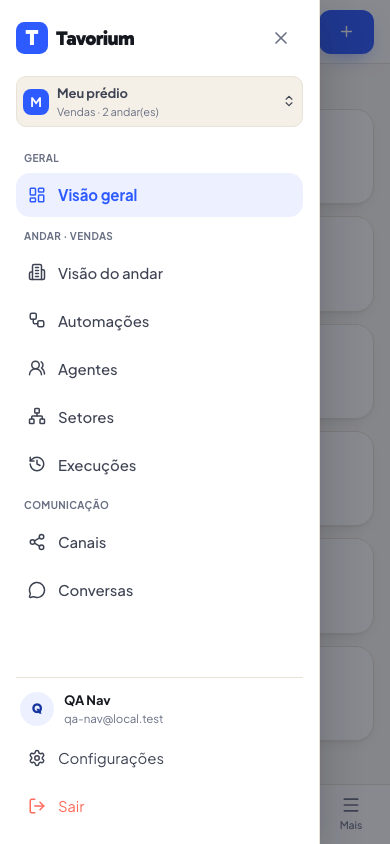
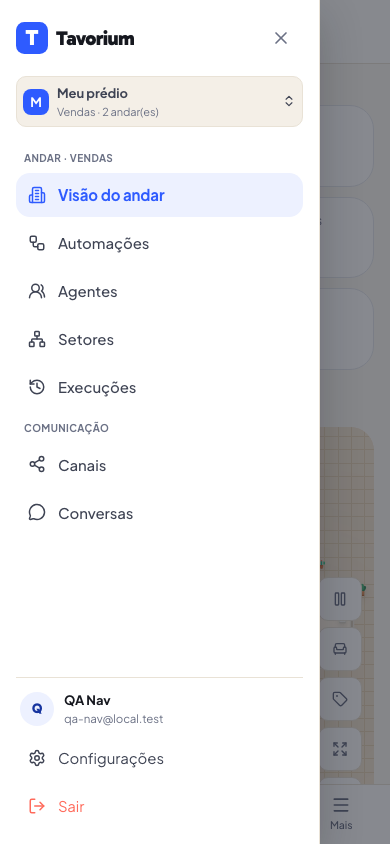
feat(nav): merge the building overview into the floor home
One overview instead of two: /dashboard now resolves to the active floor (building landing only when no floor exists yet). The floor home shows a compact PRÉDIO KPI strip (building-wide totals) above the ESTE ANDAR section (scoped office map + floor data). Floor switching stays in the sidebar building selector — no floor-switch buttons on the page (per request). Removed the duplicate 'Visão geral' nav item; the floor item is exact-match so it doesn't stay active on sub-pages. Removed the now-circular 'Prédio' back-link. Updated E2E, redirect map, report and screenshots.

diff --git a/frontend/src/pages/FloorView.tsx b/frontend/src/pages/FloorView.tsx
@@ -1,8 +1,8 @@
 import { useCallback, useEffect, useState } from 'react'
-import { Link, useParams } from 'react-router'
+import { useParams } from 'react-router'
 import { AppLayout } from '../components/AppLayout'
-import { archiveFloor, getFloor, getFloorActivity, getFloorMetrics, restoreFloor } from '../lib/floors'
-import type { Floor, FloorMetrics } from '../lib/floors'
+import { archiveFloor, getBuildingOverview, getFloor, getFloorActivity, getFloorMetrics, restoreFloor } from '../lib/floors'
+import type { BuildingOverview, Floor, FloorMetrics } from '../lib/floors'
 import { featureFlags } from '../featureFlags'
 import { OfficeFloor } from '../office/OfficeFloor'
 import { useAgentsAndWidgets } from '../lib/useAgentsAndWidgets'
@@ -18,9 +18,21 @@ export function FloorView() {
   const [floor, setFloor] = useState<Floor | null>(null)
   const [activity, setActivity] = useState<{ agentCount: number; sectorCount: number } | null>(null)
   const [metrics, setMetrics] = useState<FloorMetrics | null>(null)
+  // Building-wide summary (the merged overview) shown compactly at the top.
+  const [overview, setOverview] = useState<BuildingOverview | null>(null)
   const [loading, setLoading] = useState(true)
   const [error, setError] = useState(false)
   const [busy, setBusy] = useState(false)
+
+  useEffect(() => {
+    let alive = true
+    getBuildingOverview()
+      .then((o) => alive && setOverview(o))
+      .catch(() => {})
+    return () => {
+      alive = false
+    }
+  }, [])
 
   const load = useCallback(async () => {
     if (!floorId) return
@@ -60,18 +72,27 @@ export function FloorView() {
       current="/dashboard"
       title={floor?.name ?? 'Andar'}
       subtitle={floor?.mission || 'Andar do prédio'}
-      actions={
-        <Link to="/dashboard" style={{ textDecoration: 'none' }}>
-          <Button variant="ghost" icon="arrow-left">
-            Prédio
-          </Button>
-        </Link>
-      }
     >
       {loading && <p style={{ color: 'var(--text-muted)' }}>Carregando andar…</p>}
       {error && <p style={{ color: 'var(--intent-danger, #d92d20)' }}>Não foi possível carregar o andar.</p>}
       {!loading && !error && floor && (
         <div style={{ display: 'flex', flexDirection: 'column', gap: 16 }}>
+          {/* Building-wide summary (merged overview). Switching floors is done from
+              the building selector in the sidebar — not from this page. */}
+          {overview && (
+            <div>
+              <SectionLabel>Prédio</SectionLabel>
+              <div style={{ display: 'grid', gap: 10, gridTemplateColumns: 'repeat(auto-fill, minmax(120px, 1fr))' }}>
+                <Tile label="Andares" value={overview.totals.floors} />
+                <Tile label="Agentes" value={overview.totals.agents} />
+                <Tile label="Setores" value={overview.totals.sectors} />
+                <Tile label="Automações ativas" value={overview.totals.automationsActive} />
+                <Tile label="Execuções ativas" value={overview.totals.runsActive} />
+                <Tile label="Falhas (24h)" value={overview.totals.failures24h} />
+              </div>
+            </div>
+          )}
+          <SectionLabel>Este andar</SectionLabel>
           {/* The visual office map is the centre of the floor view (scoped). */}
           <OfficeFloor floorId={floor.id} agents={agents} sectors={sectors} />
           <div style={panel}>
@@ -102,6 +123,14 @@ export function FloorView() {
         </div>
       )}
     </AppLayout>
+  )
+}
+
+function SectionLabel({ children }: { children: string }) {
+  return (
+    <h2 style={{ margin: '0 0 8px', fontSize: 11, fontWeight: 700, letterSpacing: '.06em', textTransform: 'uppercase', color: 'var(--text-faint)' }}>
+      {children}
+    </h2>
   )
 }
 

diff --git a/frontend/src/components/navConfig.ts b/frontend/src/components/navConfig.ts
@@ -13,6 +13,9 @@ export interface NavItemDef {
   path: (floorId: string | null) => string
   // Route prefixes that keep this item active (details keep the parent active).
   activePrefixes: (floorId: string | null) => string[]
+  // Active only on an exact path match (the floor home must not stay lit on its
+  // own sub-pages like /agents).
+  exact?: boolean
   mobilePrimary?: boolean
   featureFlag?: keyof FeatureFlags
 }
@@ -20,8 +23,9 @@ export interface NavItemDef {
 const floorPath = (floorId: string | null, suffix: string, legacy: string) => (floorId ? `/floors/${floorId}${suffix}` : legacy)
 
 export const NAV_V2: NavItemDef[] = [
-  { key: 'overview', label: 'Visão geral', icon: 'layout-dashboard', scope: 'general', path: () => '/dashboard', activePrefixes: () => ['/dashboard'], mobilePrimary: true },
-  { key: 'floor', label: 'Visão do andar', icon: 'building-2', scope: 'floor', path: (f) => floorPath(f, '', '/dashboard'), activePrefixes: (f) => (f ? [`/floors/${f}`] : []), mobilePrimary: true },
+  // The floor home is also the building home (the general overview was merged into
+  // it) — exact match so it doesn't stay active on the floor's sub-pages.
+  { key: 'floor', label: 'Visão do andar', icon: 'building-2', scope: 'floor', path: (f) => floorPath(f, '', '/dashboard'), activePrefixes: (f) => (f ? [`/floors/${f}`] : ['/dashboard']), exact: true, mobilePrimary: true },
   { key: 'automations', label: 'Automações', icon: 'workflow', scope: 'floor', path: (f) => floorPath(f, '/automations', '/automations'), activePrefixes: (f) => [floorPath(f, '/automations', '/automations')], mobilePrimary: true, featureFlag: 'aiAutomations' },
   { key: 'agents', label: 'Agentes', icon: 'users-round', scope: 'floor', path: (f) => floorPath(f, '/agents', '/agents'), activePrefixes: (f) => [floorPath(f, '/agents', '/agents')], mobilePrimary: true },
   { key: 'sectors', label: 'Setores', icon: 'network', scope: 'floor', path: (f) => floorPath(f, '/sectors', '/setores'), activePrefixes: (f) => [floorPath(f, '/sectors', '/setores')] },
@@ -42,5 +46,5 @@ export const SCOPE_LABEL: Record<NavScope, string> = {
 
 // True when the current pathname matches one of an item's active prefixes.
 export function isNavActive(item: NavItemDef, floorId: string | null, pathname: string): boolean {
-  return item.activePrefixes(floorId).some((p) => pathname === p || pathname.startsWith(p + '/'))
+  return item.activePrefixes(floorId).some((p) => (item.exact ? pathname === p : pathname === p || pathname.startsWith(p + '/')))
 }

diff --git a/frontend/src/App.tsx b/frontend/src/App.tsx
@@ -3,7 +3,7 @@ import { Navigate, Route, Routes } from 'react-router'
 import { ProtectedRoute } from './components/ProtectedRoute'
 import { featureFlags } from './featureFlags'
 import { BuildingProvider } from './contexts/BuildingContext'
-import { AutomationDetailRedirect, BuildingToDashboard, LegacyModuleRedirect } from './pages/redirects'
+import { AutomationDetailRedirect, BuildingToDashboard, DashboardHome, LegacyModuleRedirect } from './pages/redirects'
 import { FloorView } from './pages/FloorView'
 import { Automations } from './pages/Automations'
 import { AutomationEditor } from './pages/AutomationEditor'
@@ -37,8 +37,10 @@ function App() {
       <Route path="/register" element={<Register />} />
       <Route path="/widget/:publicKey" element={<Widget />} />
 
-      {/* The single building overview */}
-      <Route path="/dashboard" element={<P><Dashboard /></P>} />
+      {/* Home. In V2 the building overview is merged into the floor home, so
+          /dashboard resolves to the active floor (or the building landing when
+          there is no floor yet). */}
+      <Route path="/dashboard" element={<P>{v2 ? <DashboardHome /> : <Dashboard />}</P>} />
 
       {v2 ? (
         <>

diff --git a/frontend/src/pages/redirects.tsx b/frontend/src/pages/redirects.tsx
@@ -2,12 +2,23 @@ import { useEffect, useState } from 'react'
 import { Navigate, useParams } from 'react-router'
 import { useBuildingContext } from '../contexts/BuildingContext'
 import { getAutomation } from '../lib/automations'
+import { Dashboard } from './Dashboard'
 
 // Legacy-route redirects (UX reorg §4.2). URLs stay working; they resolve to the
 // canonical floor-scoped route so bookmarks/links never break.
 
 export function BuildingToDashboard() {
   return <Navigate to="/dashboard" replace />
+}
+
+// /dashboard is no longer a page of its own: the building overview was merged into
+// the floor home. Send it to the active floor; only when there is no floor yet do
+// we fall back to the building landing (KPIs + create-your-first-floor).
+export function DashboardHome() {
+  const { activeFloorId, loading } = useBuildingContext()
+  if (loading) return null
+  if (activeFloorId) return <Navigate to={`/floors/${activeFloorId}`} replace />
+  return <Dashboard />
 }
 
 // A global module route (/automations, /agents, /setores, /runs) → the same

diff --git a/frontend/e2e/nav-hierarchy.spec.ts b/frontend/e2e/nav-hierarchy.spec.ts
@@ -22,12 +22,13 @@ async function login(page: Page) {
   await page.waitForURL('**/dashboard', { timeout: 15_000 }).catch(() => {})
 }
 
-test('dashboard is the building overview (KPIs + floor cards), not the map', async ({ page }) => {
+test('home is the floor page with the building summary merged in', async ({ page }) => {
   await login(page)
-  await expect(page.getByText('OPERAÇÃO')).toBeVisible()
-  await expect(page.getByText('ANDARES', { exact: true })).toBeVisible()
-  // The office map must NOT be on the general dashboard anymore.
-  await expect(page.locator('canvas')).toHaveCount(0)
+  // /dashboard resolves to the active floor (the overview was merged into it).
+  await expect(page).toHaveURL(/\/floors\/[a-f0-9]{24}$/, { timeout: 10_000 })
+  // Building summary strip on top, the floor map below.
+  await expect(page.getByText('PRÉDIO')).toBeVisible()
+  await expect(page.getByText('ESTE ANDAR')).toBeVisible()
 })
 
 test('the URL is the source of truth for the active floor', async ({ page }) => {

diff --git a/frontend/src/components/BuildingSwitcher.tsx b/frontend/src/components/BuildingSwitcher.tsx
@@ -68,7 +68,7 @@ export function BuildingSwitcher({ expanded = false }: { expanded?: boolean }) {
       {open && (
         <div role="menu" style={popover}>
           <button role="menuitem" style={menuItem} onClick={go(() => navigate('/dashboard'))}>
-            Visão geral
+            Início
           </button>
           <div style={sectionLabel}>ANDAR ATUAL</div>
           {activeFloor ? (

diff --git a/AI_BUILDING_UX_NAVIGATION_REORGANIZATION_REPORT.md b/AI_BUILDING_UX_NAVIGATION_REORGANIZATION_REPORT.md
@@ -77,12 +77,12 @@ the three Vendas agents — no cross-floor leakage.
 
 | File | Shows |
 |---|---|
-| `desktop-01-dashboard.png` | Building dashboard: OPERAÇÃO KPIs, ANDARES cards, COMUNICAÇÃO |
-| `desktop-01b-sidebar-hover.png` | Expanded sidebar: switcher + GERAL / ANDAR · VENDAS / COMUNICAÇÃO |
-| `desktop-02-floor-map.png` | Floor overview: the scoped office map + status/metrics tiles |
+| `desktop-05-merged-home.png` | Floor home: **PRÉDIO** KPI strip + **ESTE ANDAR** scoped office map (the merged overview; no floor-switch buttons on the page) |
+| `desktop-01b-sidebar-hover.png` | Expanded sidebar: switcher + ANDAR · VENDAS / COMUNICAÇÃO (no separate "Visão geral") |
+| `desktop-02-floor-map.png` | The scoped office map + status/metrics tiles |
 | `desktop-03-floor-agents.png` | Agents scoped to Vendas (3) + live status badges |
 | `desktop-04-floor-automations.png` | Automations scoped to the floor |
-| `mobile-01-dashboard.png` | Mobile dashboard + bottom nav (5 items) |
+| `mobile-01-dashboard.png` | Mobile floor home: PRÉDIO KPIs + map, bottom nav (4 items) |
 | `mobile-02-drawer.png` | "Mais" drawer: full switcher + grouped nav + account footer |
 | `mobile-03-floor-map.png` | Floor map on mobile |
 
@@ -107,6 +107,16 @@ deploy, no production change, no push to `main`.
 `frontend/.env`: `VITE_AI_BUILDING_ENABLED=true` (already set locally), then restart
 vite (flags are build-time). Rollback: set it false / unset and rebuild — the V1 app
 returns unchanged. See `docs/ux-nav/redirect-map.md`.
+
+## Post-plan change — overview merged into the floor home
+
+Per user request, the separate *Visão geral* dashboard was merged into the floor
+home: there are no longer two "overview" destinations. `/dashboard` now resolves to
+the active floor; the floor home (`/floors/:id`) shows a compact **PRÉDIO** KPI strip
+(building-wide totals) above the **ESTE ANDAR** section (map + floor data). Floor
+switching is the sidebar building selector only — there are no floor-switch buttons on
+the page. The `Visão geral` nav item was removed; the building overview component
+survives only as the no-floor landing.
 
 ## Follow-ups (out of scope, noted)
 

diff --git a/docs/ux-nav/redirect-map.md b/docs/ux-nav/redirect-map.md
@@ -10,8 +10,8 @@ into the canonical route.
 
 | Route | Page | Scope |
 |---|---|---|
-| `/dashboard` | Building overview (KPIs + floor cards) | building |
-| `/floors/:floorId` | Floor overview (visual office map) | floor |
+| `/dashboard` | **Resolver** → the active floor (`/floors/:active`). The building overview was merged into the floor home; only when the account has no floor yet does it render the building landing (KPIs + create-first-floor). | building |
+| `/floors/:floorId` | **Floor home**: building summary strip (KPIs) + the floor's visual office map + floor data. This is the app home. | floor |
 | `/floors/:floorId/agents` | Agents of the floor | floor |
 | `/floors/:floorId/agents/:agentId[/:section]` | Agent detail | floor |
 | `/floors/:floorId/sectors` | Sectors of the floor | floor |
